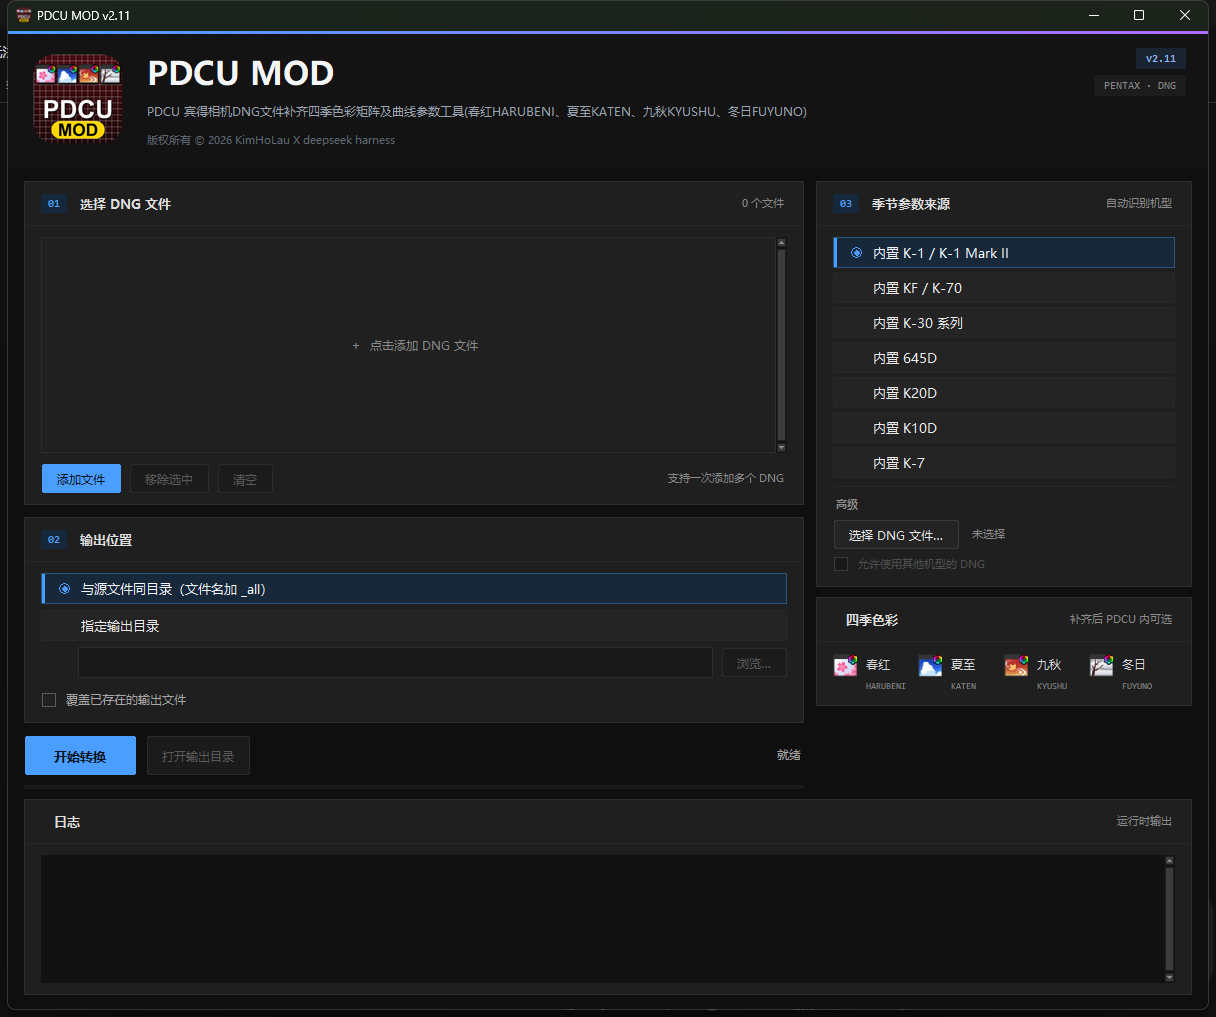
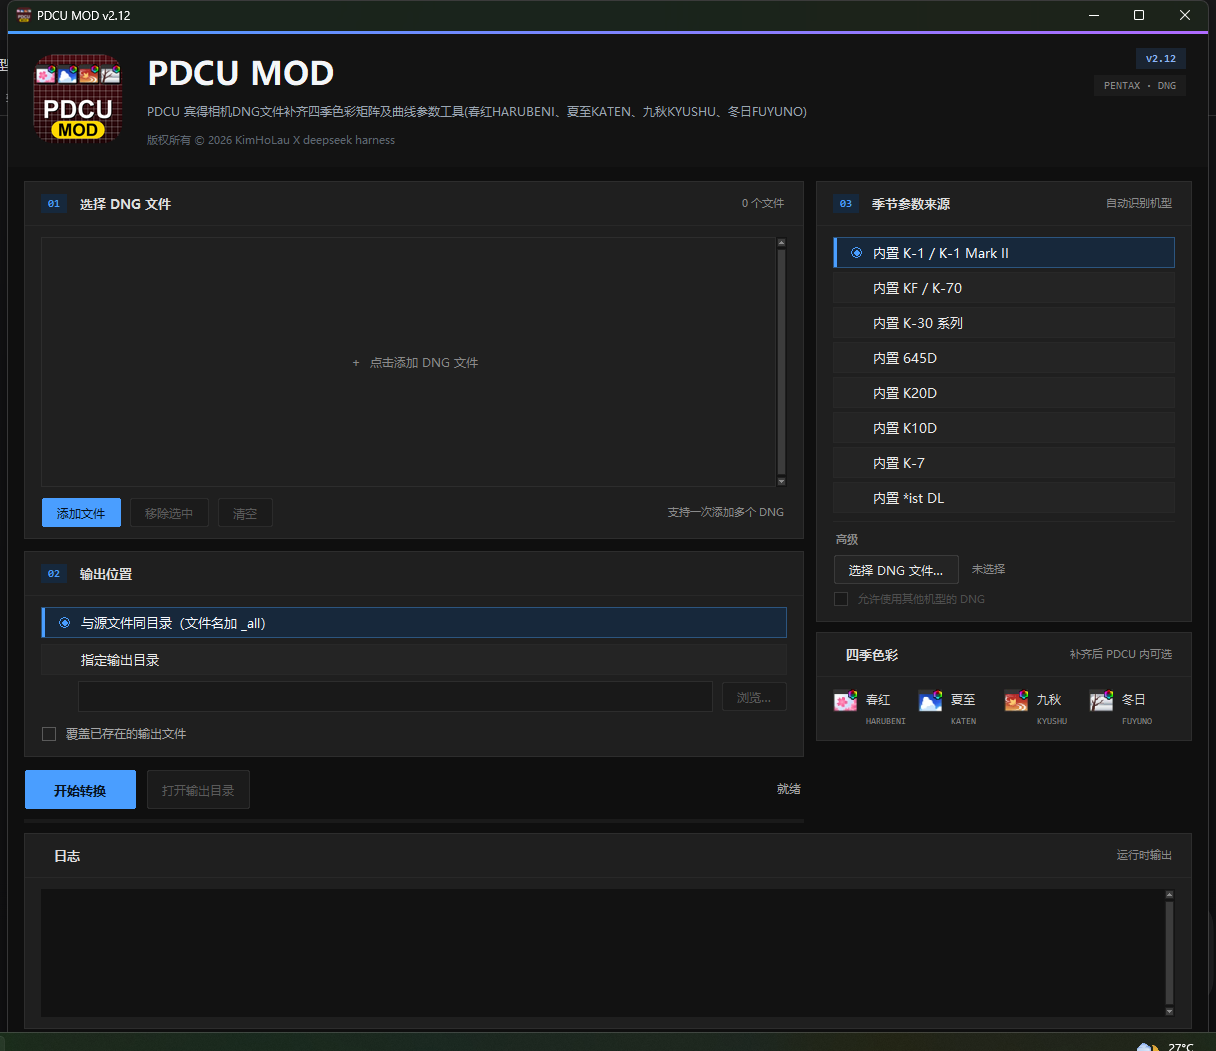
v2.12 打包记录、排名表并入 *ist DL、更新界面截图

diff --git a/readme.md b/readme.md
@@ -83,7 +83,7 @@ PDCU 宾得相机DNG文件补齐四季色彩矩阵及曲线参数工具(春红HA
 
 ## 运行
 
-发布文件：`dist/PDCU-Season-Params.exe`（或 `dist/PDCU-Season-ParamsV2.11.zip`）
+发布文件：`dist/PDCU-Season-Params.exe`（或 `dist/PDCU-Season-ParamsV2.12.zip`）
 
 双击运行，首次运行 Windows SmartScreen 可能提示
 “未知发布者”，选择“更多信息 -> 仍要运行”。
@@ -113,7 +113,7 @@ macOS 上要用 py2app 打包（`python3 setup.py py2app`），打包步骤与
   键盘选行必须用 `HOME`，不能连按 `UP` 回顶；上一份“\*ist DL 不可移植”的分析
   就是在这里选错了行，本次一并更正（详见
   [`docs/PDCU-istDL-KF四季移植分析.md`](docs/PDCU-istDL-KF四季移植分析.md)）。
-  界面：窗口高度 1008 → 1042（`minsize` 1120×1012），容纳第 8 个来源选项；
+  界面：窗口高度 978 → 1012（`minsize` 1120×1012），容纳第 8 个来源选项；
   版本号同步到 2.12。
 - **v2.11**：修复 **DCU 5 转出的 DNG 打补丁后 PDCU 不出图**。把 AOC MakerNote
   整块搬到文件尾时，工具把 `0x0004` / `0x0005` 当成"预览偏移"，只要数值落在块内就
@@ -238,6 +238,40 @@ macOS 上要用 py2app 打包（`python3 setup.py py2app`），打包步骤与
   并用 K-30 色彩空间校准 KF 四季矩阵。K-30 自动识别。
 - **v1.5**：内置 KF 四季参数，K-70 自动识别。
 - **v1.4**：内置 KF 数据；KF / K-70 按“基础矩阵相同”精确移植。
+
+### v2.12 打包记录（2026-11-03）
+
+构建：Python 3.14.3 + PyInstaller 6.22.3，`PDCU-Season-Params.spec`（onefile），
+FileVersion / ProductVersion **2.12.0.0**。
+
+| 产物 | 大小 |
+|---|---:|
+| `dist/PDCU-Season-Params.exe` | 19,394,239 B |
+| `dist/PDCU-Season-ParamsV2.12.zip`（exe + 使用说明） | 19,139,885 B |
+
+打包后 exe 的 **19 组**机型自检全部通过：18 组与 v2.11 记录逐字节相同，第 19 组是新增的
+*ist DL（产物与源码 CLI / GUI 逐字节相同）。
+
+| 机型 | 自检参数 | 自检输出 SHA-256 |
+|---|---|---|
[1 lines of base64/hex data omitted]
+
+其余 18 组（K-1 / K-1 Mark II / K-70 / K-3 / K-3 II / KP / K-S2 / 645Z / 645D /
+K-30 / K-01 / K-50 / Q7 / MX-1 / K20D / K10D / K-7，加上 v2.11 那份 DCU 转出的
+K-1 Mark II）与 v2.11 的 SHA-256 记录逐字节相同。
+
+界面：源码与 exe 的标题栏、右上角 chip 都是 v2.12，8 个来源选项完整显示；
+窗口 1200×1012；`PDCU-GUI.png` 已按 v2.12 更新。
+
+zip 内文件：`PDCU-Season-Params.exe` + `使用说明.txt`（首行 PDCU MOD v2.12）。
+
+SHA-256：
+
+```
+exe    1EBAF888BE2288E48614EE88C15EE5BB9A4FAD9C4669FE4FA2D223D2B2886408
+zip    11FB627C3E4E4E78E313281AADF897CFE76CEA75BA877026B36864CB84BD9C0E
+ist_dl A5986CA863787DC9EB29DBBBD98A4B096171F6561A5752C978A41564982CE63C
+```
 
 ### v2.11 打包记录（2026-11-03）
 

diff --git a/docs/PDCU-istDL-KF四季移植分析.md b/docs/PDCU-istDL-KF四季移植分析.md
@@ -417,7 +417,7 @@ python tools\dng_season_params.py --target "sample/ist DL.dng" --builtin istdl ^
    与 v2.11 的参考 SHA 逐字节一致；*ist DL 从原来的 `no-donor` 变成有产物，
    是本次唯一预期的变化。
 4. readme 适配表加入第 16 行（A 档，共 21 台），版本说明补 v2.12；
-   GUI 版本号 2.12，窗口高度 1008 → 1042（`minsize` 1012），容纳第 8 个来源行。
+   GUI 版本号 2.12，窗口高度 978 → 1012（`minsize` 1120×1012），容纳第 8 个来源行。
 
 ## 9. 边界与未验证
 
